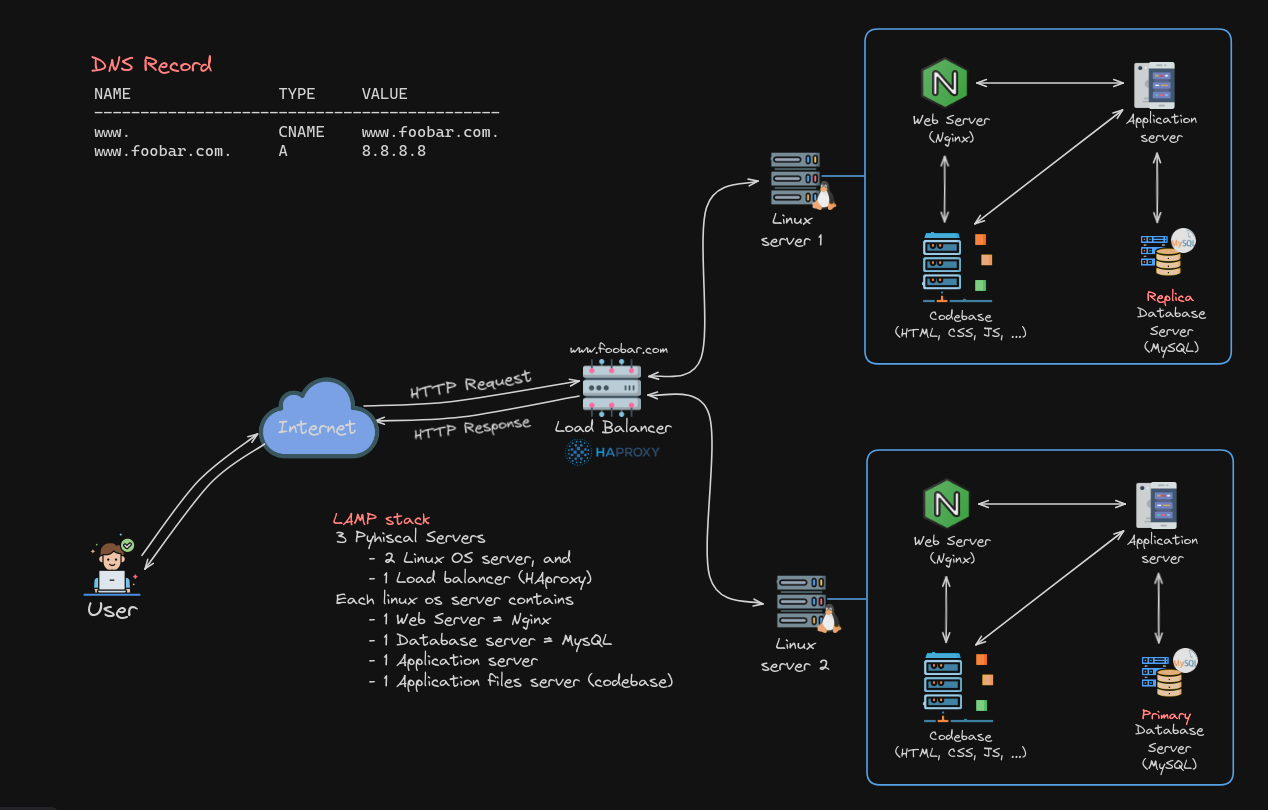
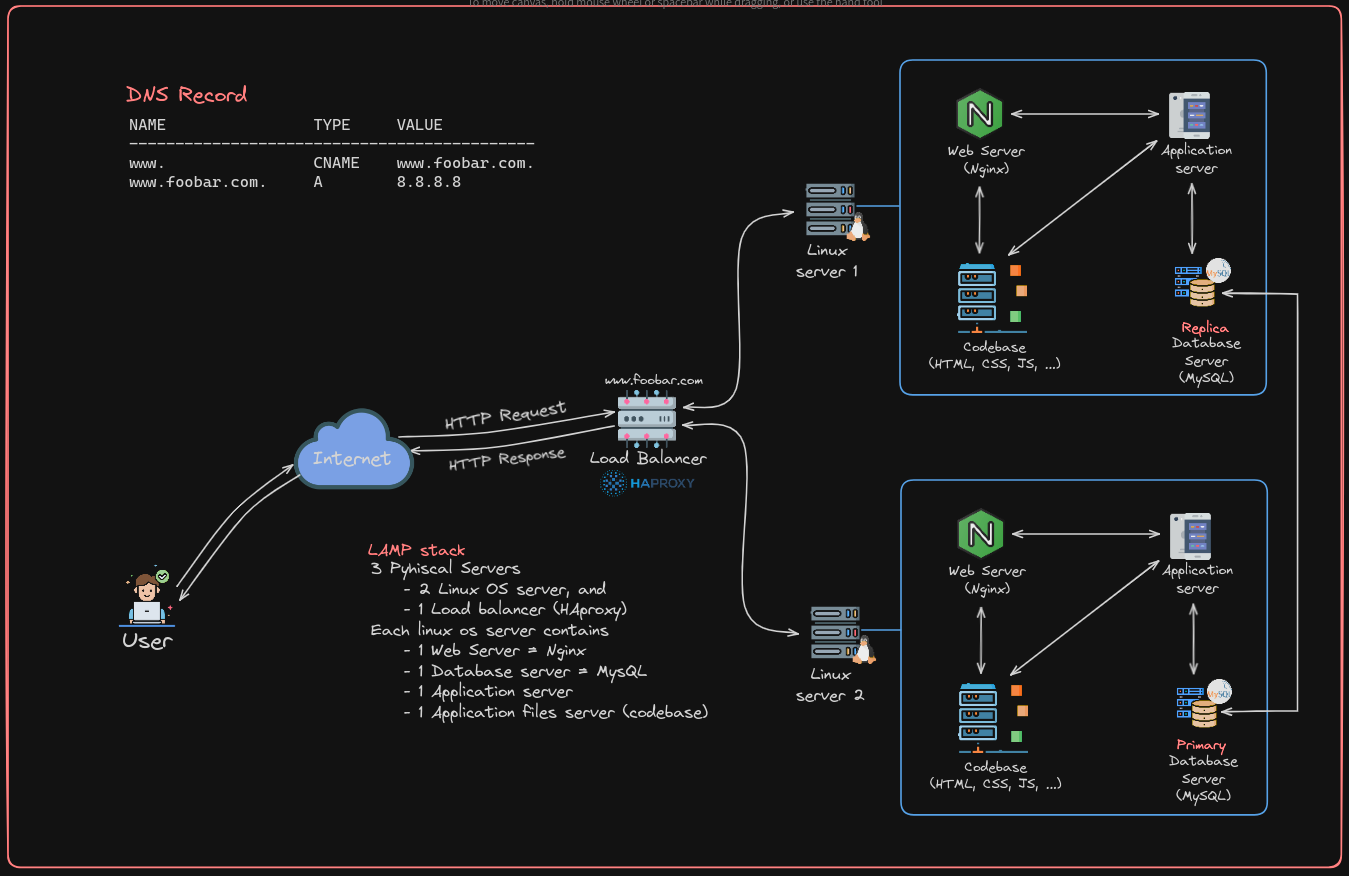
feat: update the distributed web infrastructure design

diff --git a/0x09-web_infrastructure_design/README.md b/0x09-web_infrastructure_design/README.md
@@ -74,21 +74,65 @@ www.foobar.com.     A        8.8.8.8
   - It does not have any security infrastructure and so is vulnerable to a
     cyber attack.
 
-### Distributed web infrastructure design
+### Distributed web infrastructure
 
 File: [1-distributed_web_infrastructure](./1-distributed_web_infrastructure)
 
 ![1-distributed_web_infrastructure](./images/1-distributed_web_infrastructure.png)
 
-- This design builds upon the simple web stack design by adding two more
-  servers and in total making it a three server web infrastructure design.
-- So the following requirements are added to the previous one:
+This design builds upon the simple web stack design by adding two more
+servers and in total making it a three server web infrastructure design.
+
+- Additional components
   - 2 servers
   - 1 web server (Nginx)
   - 1 application server
   - 1 load-balancer (HAproxy)
-  - 1 application files (codebase)
+  - 1 set of application files (your code base)
   - 1 database (MySQL)
+- Explanation
+  - In this design two more physical servers are added. One server acts as a
+    load balancer and the other one will be an additional linux server used
+    for hosting the website.
+  - The load balancer will be used to manage traffic load between the two linux
+    servers by using an Active-Active setup and a Least connection algorithm.
+    This enables us to handle more traffic concurrently, ensure high availability
+    and minimize downtime.
+    - In an Active-Active setup the two servers are active and are handling HTTP
+      requests. This setup is relatively more complex to setup but it ensures
+      high availability and it also makes scalability easier. This setup is
+      ideal for applications that require high availability and no downtime.
+    - An alternative setup is Active-Passive setup, where one server handles all
+      traffic and the other is in a passive state waiting to take over when the active
+      server is down. This setup is relatively simpler and cost effective but there
+      is a possible downtime because when the active server is down the passive
+      server might take some time to be active. This setup is ideal for small
+      organizations and for applications where a small amount of downtime is tolerated.
+    - Least connection algorithm is a load balancing algorithm where the load
+      balancer routes traffic to the server with the least connection. This
+      provides balance in traffic load between the two servers is more dynamic.
+  - The databases are setup in a Primary-Replica cluster.
+    - The Primary database is used as the authoritative database that handles
+      write and read operations.
+    - The Replica database is used as a replica of the primary database and
+      handle only read operations. This increases performance by decreasing load
+      on the Primary database.
+    - So the way the Primary-Replica clustering works is the Primary will be the
+      authoritative database and all the other databases will be a replica of the
+      Primary. Whenever a write operation is conducted the primary database
+      replicates the query to the Replica databases.
+    - One advantage of such a setup is that if the Primary database fails the
+      Replica database can immediately take over as the new Primary.
+  - Issues with this infrastructure
+    - While the use of a load balancer and an additional linux server improves
+      availability and minimize downtime. There is still a single point of
+      failure, that being there is a single load balancer. If the load balancer
+      fails the entire system becomes inaccessible even if the linux servers are
+      operational.
+    - The system doesn't have any security measures setup so it vulnerable to
+      cyber attacks.
+    - It also doesn't have any monitoring devices, so it is hard to know
+      the performance and state of our system.
 
 ### Secured and monitored web infrastructure
 
